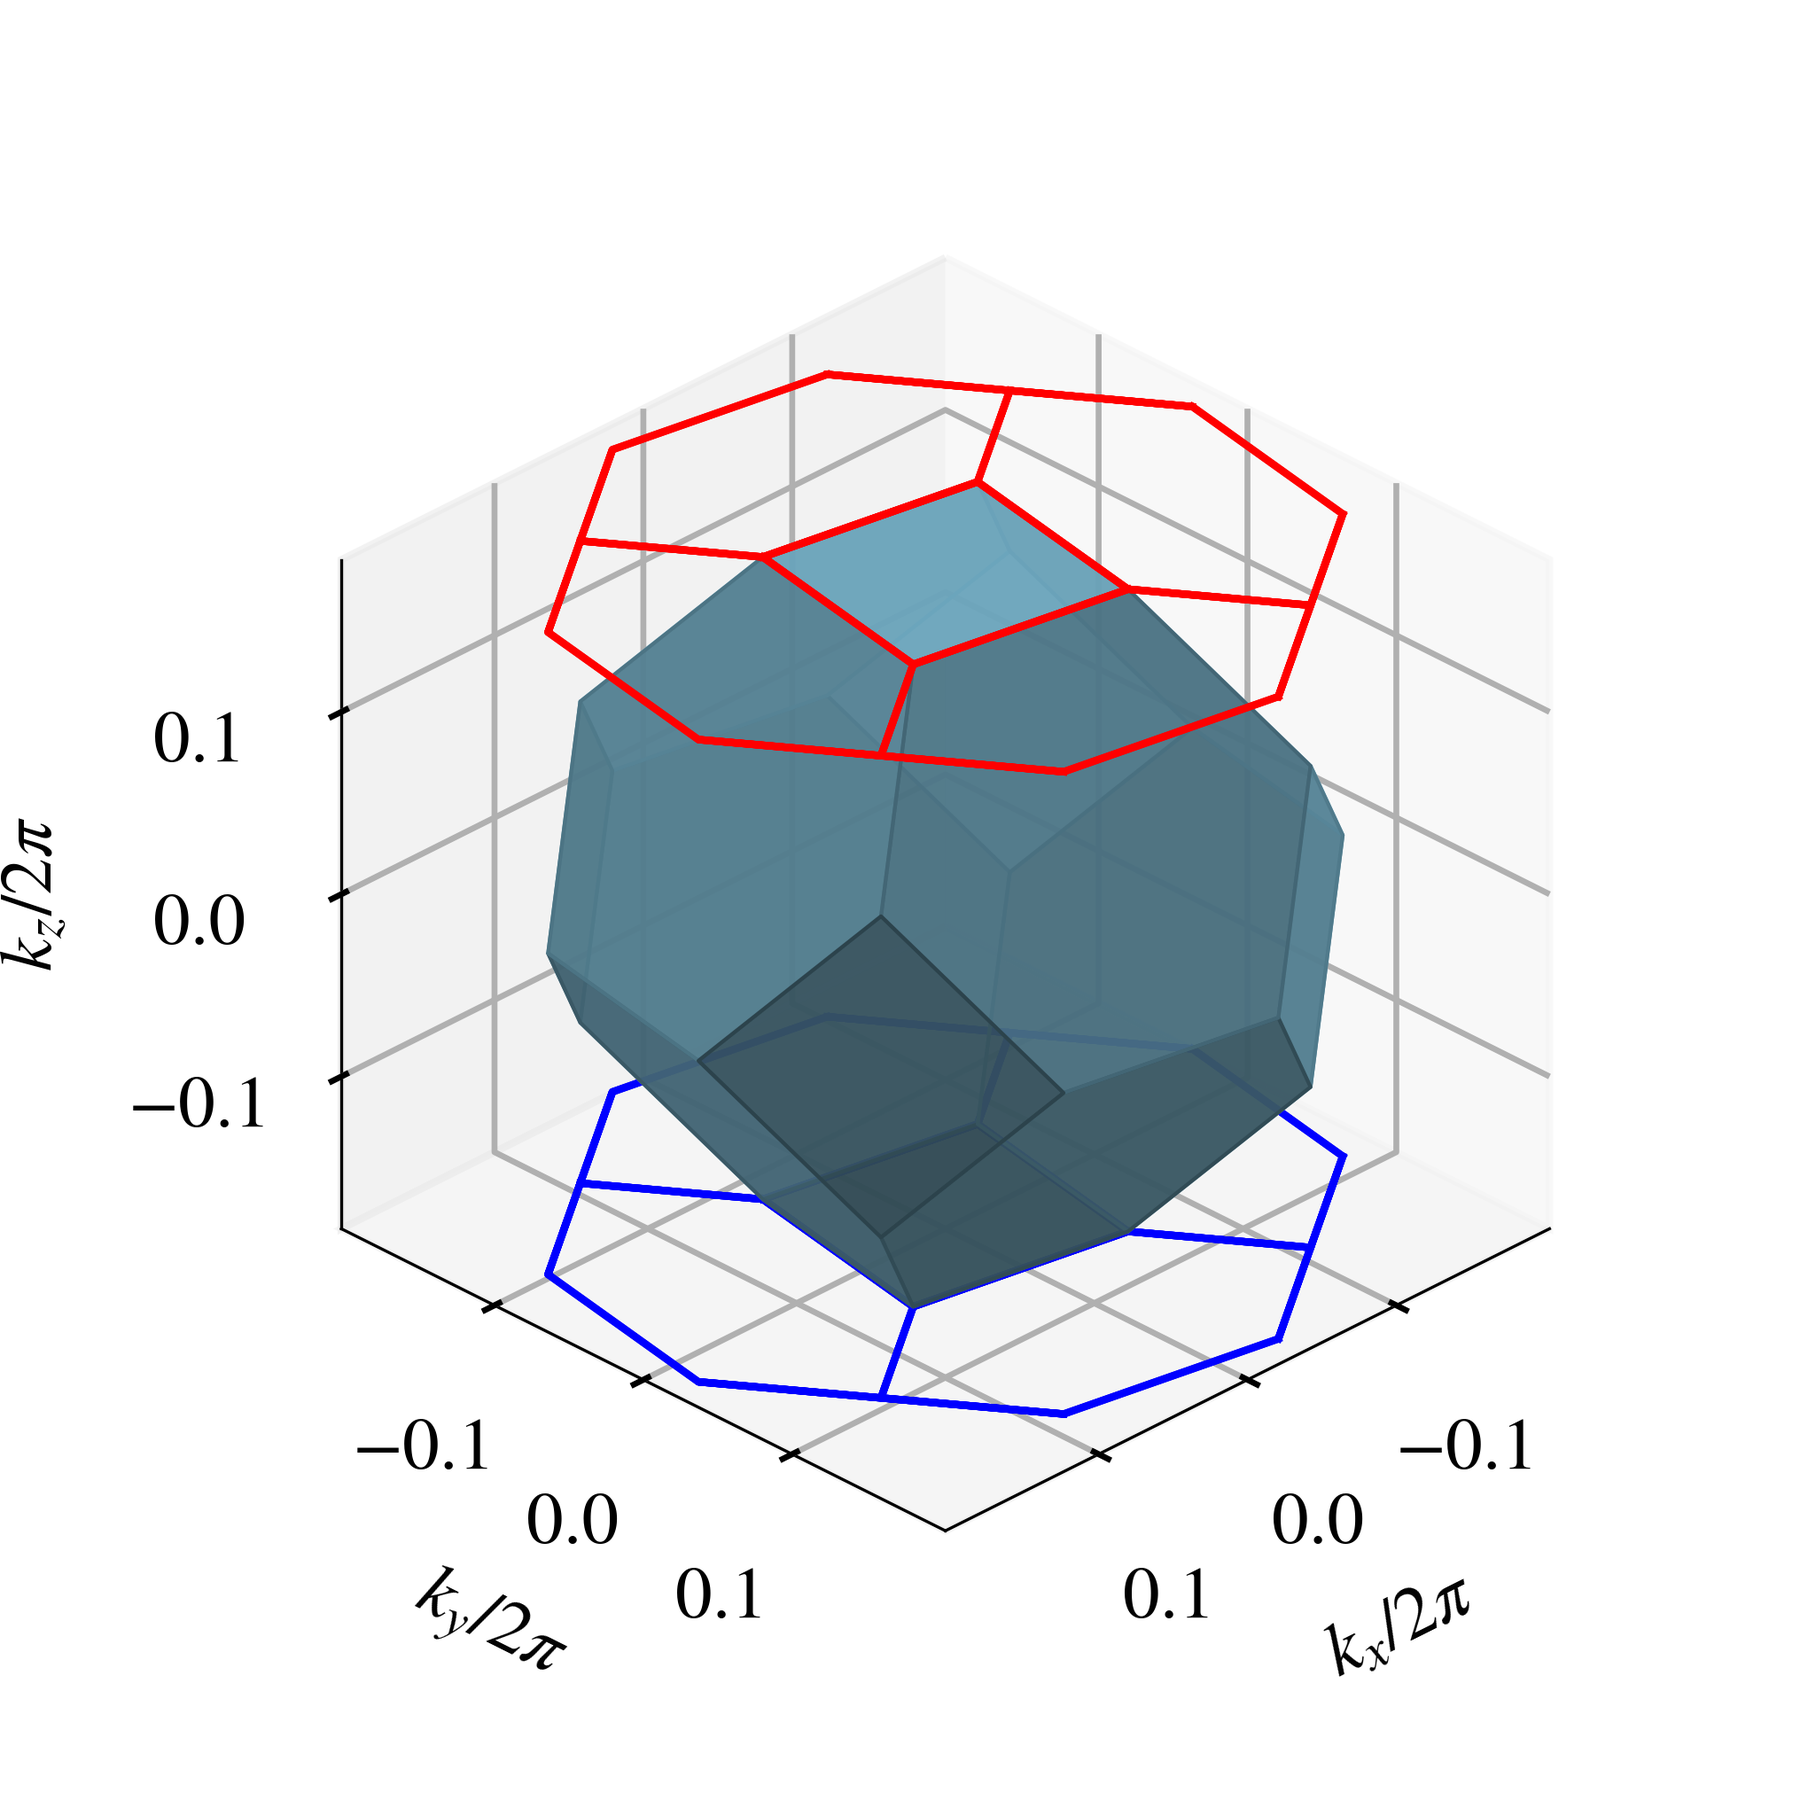
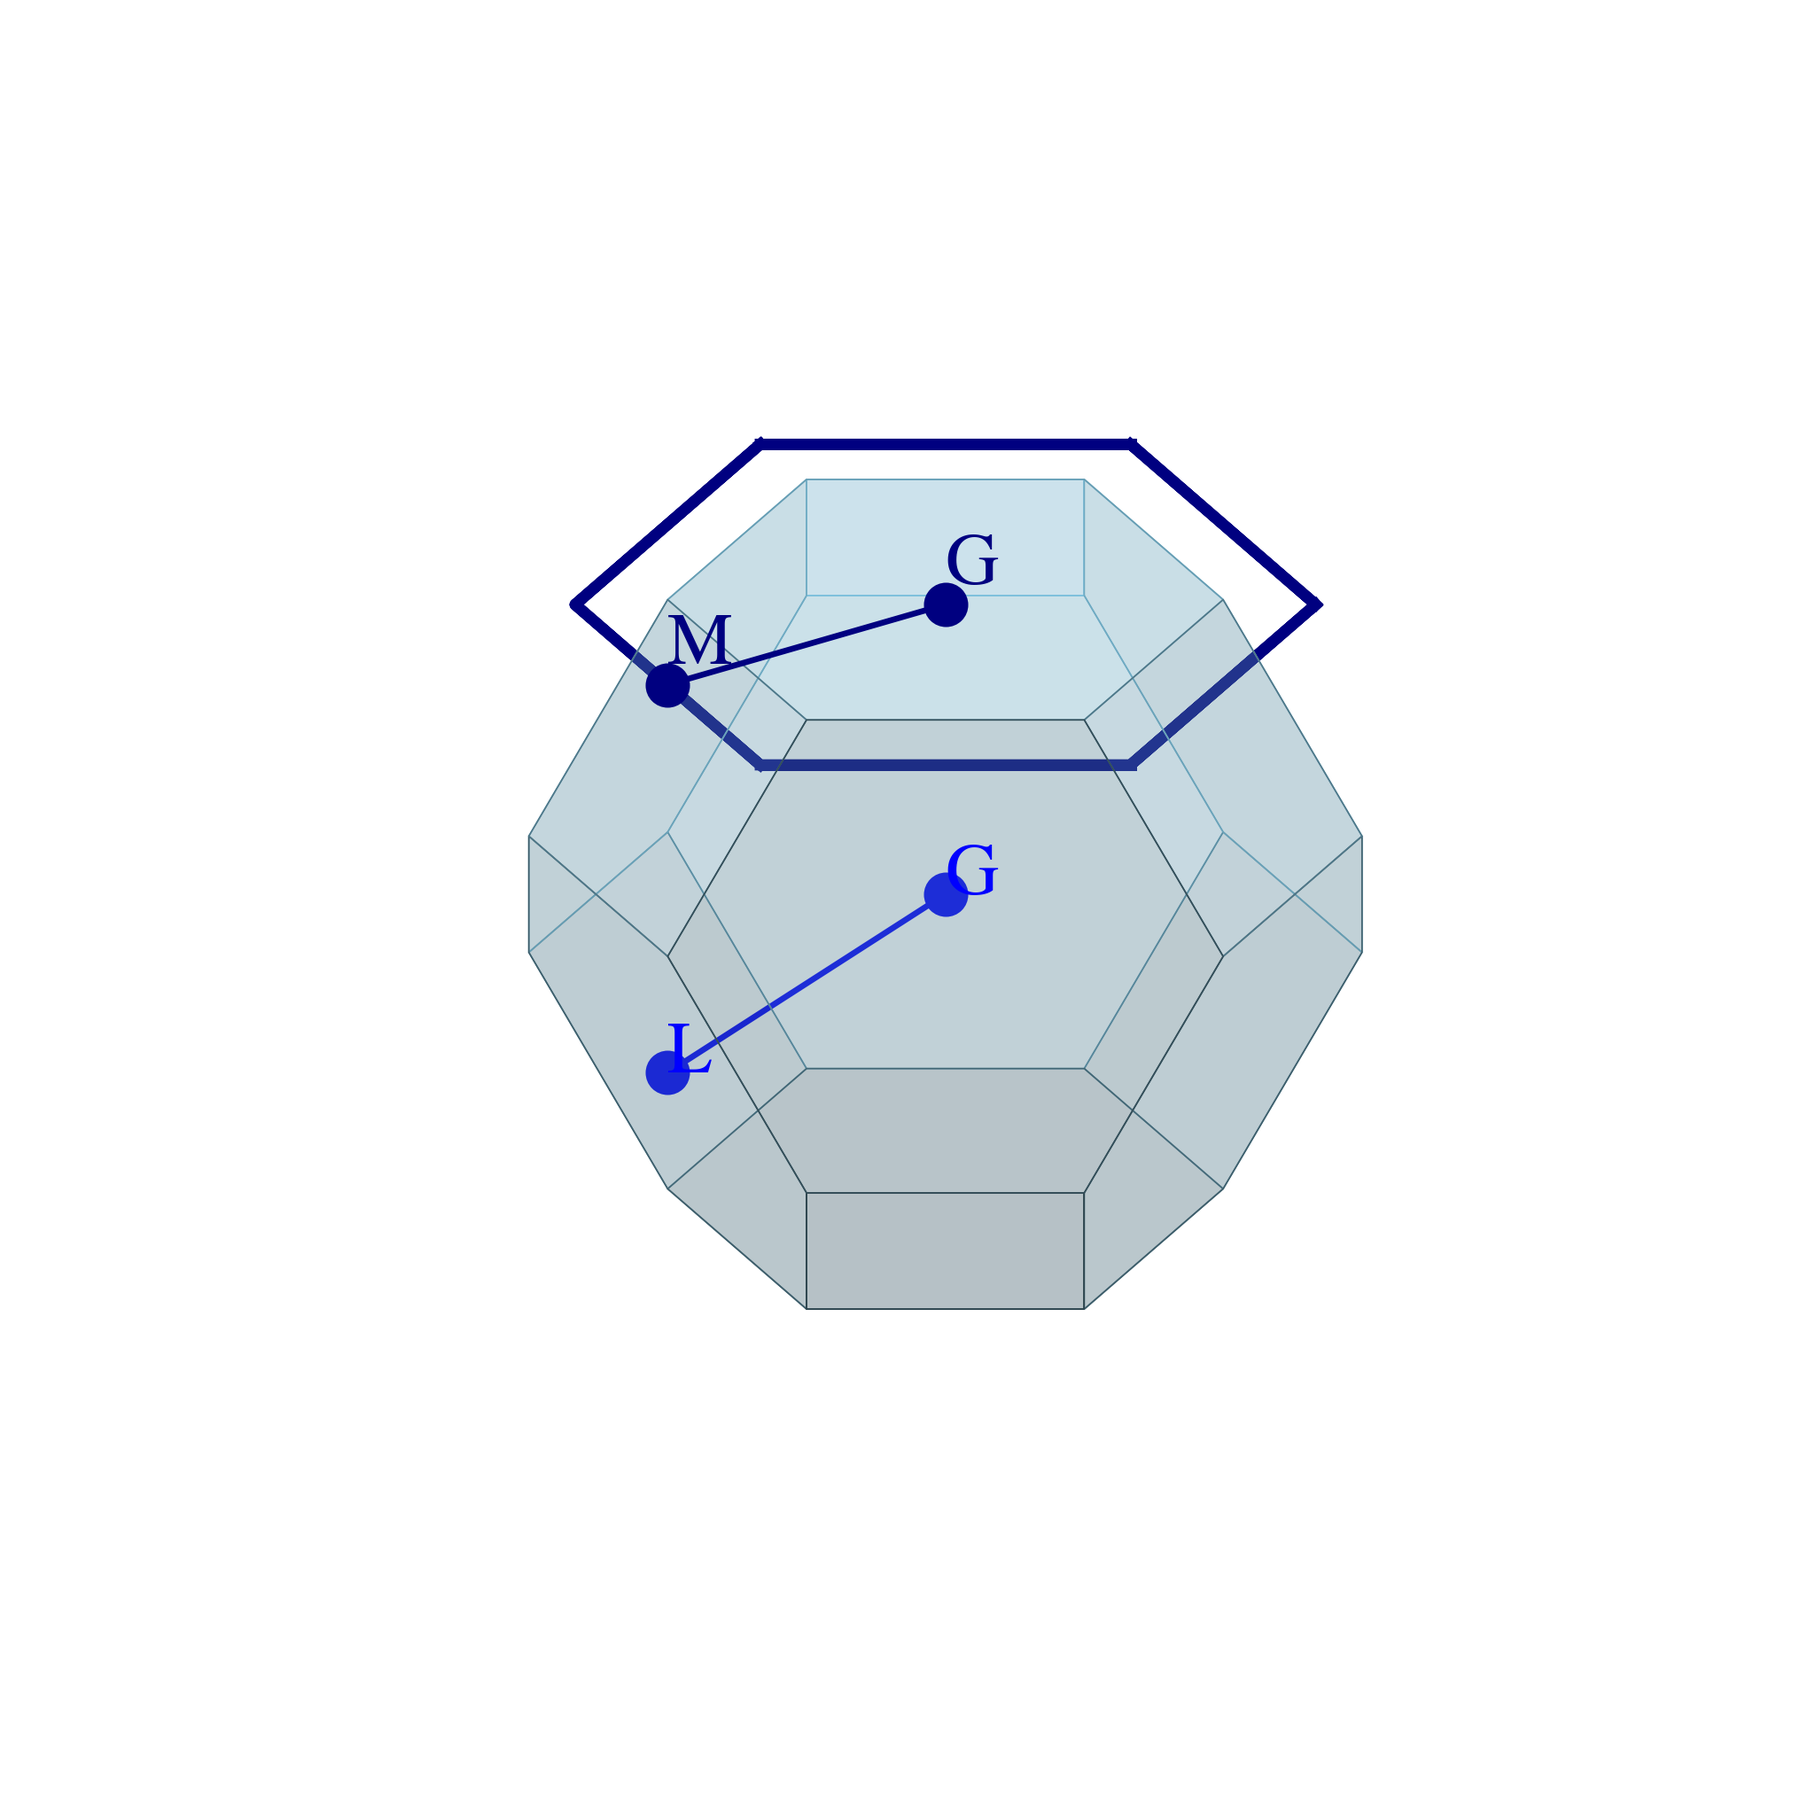
+++

diff --git a/ipyvasp/sio.py b/ipyvasp/sio.py
@@ -809,6 +809,16 @@ def _rad_angle(v1,v2):
     angle = np.arccos(dot_p)
     return angle
 
+def to_plane(normal, points):
+    "Project points to a plane defined by `normal`. shape of normal should be (3,) and of points (N,3)."
+    if np.ndim(normal) + 1 != np.ndim(points):
+        raise ValueError("Shape of points should be (N,3) and of normal (3,).")
+    points = np.array(points)
+    nu = normal/np.linalg.norm(normal) # Normal unit vector
+    along_normal = points.dot(nu) 
+    points = points - along_normal[:,None]*nu # v - (v.n)n
+    return points
+
 from scipy.spatial.transform import Rotation
 def rotation(angle_deg,axis_vec):
     """Get a scipy Rotation object at given `angle_deg` around `axis_vec`.
@@ -939,43 +949,50 @@ def splot_bz(bz_data, plane = None, ax = None, color='blue',fill=True,vectors = 
         if v not in [0,1,2]:
             raise ValueError(f"`vectors` expects values in [0,1,2], got {vectors!r}")
     
-    if plane and plane not in valid_planes:
-        raise ValueError(f"`plane` expects value in 'xyzxzyx' or None, got {plane!r}")
-    
     name = kwargs.pop('label',None) # will set only on single line
     kwargs.pop('zdir',None) # 2D plot on 3D axes is only supported in xy plane.
     
     if plane: #Project 2D, works on 3D axes as well
         ind = valid_planes.index(plane)
+        
         arr = [0,1,2,0,2,1,0]
         i, j = arr[ind], arr[ind+1]
+        is3d = getattr(ax,'name','') == '3d'
+        normals = {'xy' : (0,0,1), 'yz' : (1,0,0), 'zx' : (0,1,0), 'yx' : (0,0,-1), 'zy' : (-1,0,0), 'xz' : (0,-1,0)}
+        if plane not in normals:
+            raise ValueError(f"`plane` expects value in 'xyzxzyx' or None, got {plane!r}")
+    
+        z0 = [0,0,zoffset] if plane in 'xyx' else [0,zoffset,0] if plane in 'xzx' else [zoffset,0,0]
+        idxs = {'xy' : [0,1], 'yz' : [1,2], 'zx' : [2,0], 'yx' : [1,0], 'zy' : [2,1], 'xz' : [0,2]}
         for idx, f in enumerate(bz_data.faces_coords):
-            XYZ = (f[:,i],f[:,j], zoffset*np.ones_like(f[:,i])) if getattr(ax,'name','') == '3d' else (f[:,i],f[:,j])
-            line, = ax.plot(*XYZ,color = (color),**kwargs)
+            g = to_plane(normals[plane],f) + z0
+            line, = ax.plot(*(g.T if is3d else g[:,idxs[plane]].T),color = color,**kwargs)
             if idx == 0:
                 line.set_label(name) # only one line
         
         if vectors:
-            s_basis = bz_data.basis[(vectors,)]
+            s_basis = to_plane(normals[plane],bz_data.basis[(vectors,)])
 
-            for k,y in zip(vectors,s_basis):
+            for k,b in zip(vectors,s_basis):
+                x,y = b[idxs[plane]]
                 l = r" ${}_{} $".format(_label,k+1)
-                l = l + '\n' if y[j] < 0 else '\n' + l
-                ha = 'right' if y[i] < 0 else 'left'
-                xyz = (0.8*y[i], 0.8*y[j], zoffset) if getattr(ax,'name','') == '3d' else (0.8*y[i], 0.8*y[j])
+                l = l + '\n' if y < 0 else '\n' + l
+                ha = 'right' if x < 0 else 'left'
+                xyz = 0.8*b + z0 if is3d else (0.8*x,0.8*y)
                 ax.text(*xyz, l, va = 'center',ha=ha,clip_on = True) # must clip to have limits of axes working.
-                ax.scatter(*[0.8*v if i < 2 else v for i, v in enumerate(xyz)],color='w',s=0.0005) # Must be to scale below arrow.
-            if getattr(ax,'name','') == '3d':
-                XYZ,UVW = (np.ones_like(s_basis)*[0,0,zoffset]).T, s_basis.T
+                ax.scatter(*(xyz if is3d else 0.8*xyz),color='w',s=0.0005) # Must be to scale below arrow.
+            if is3d:
+                XYZ,UVW = (np.ones_like(s_basis)*z0).T, s_basis.T
                 quiver3d(*XYZ,*UVW,C='k',L=0.7,ax = ax,arrowstyle="-|>",mutation_scale=7)
             else:
                 s_zero = [0 for _ in s_basis] # either 3 or 2.
-                ax.quiver(s_zero,s_zero,*s_basis.T[[i,j]],lw=0.9,color='navy',angles='xy', scale_units='xy', scale=1)
+                ax.quiver(s_zero,s_zero,*s_basis[:,idxs[plane]].T,lw=0.9,color='navy',angles='xy', scale_units='xy', scale=1)
 
-        ax.set_xlabel(label.format(valid_planes[i]))
-        ax.set_ylabel(label.format(valid_planes[j]))
-        if getattr(ax,'name','') == '3d':
-            ax.set_zlabel(label.format(valid_planes[ind+2]))
+        ax.set_xlabel(label.format(idxs[plane][0]))
+        ax.set_ylabel(label.format(idxs[plane][1]))
+        if is3d:
+            ind = [i for i in range(3) if i not in idxs[plane]][0]
+            ax.set_zlabel(label.format(ind))
             ax.set_aspect('equal')
             zmin, zmax = ax.get_zlim()
             if zoffset > zmax:
@@ -987,7 +1004,7 @@ def splot_bz(bz_data, plane = None, ax = None, color='blue',fill=True,vectors = 
             ax.set_aspect(1) # Must for 2D axes to show actual lengths of BZ
         return ax
     else: # Plot 3D
-        if ax and ax.name == "3d":
+        if getattr(ax, 'name', '') == "3d": # handle None or 2D axes passed.
             ax3d = ax
         else:
             pos = ax.get_position()
@@ -1387,7 +1404,7 @@ def iplot_lattice(poscar_data, sizes = 10, colors = None, bond_length = None,tol
         coords_n = np.array(coords_n)
         colors_n = np.array(colors_n)
         
-        bond_kws = dict(line_width = 4) | bond_kws
+        bond_kws = {'line_width': 4, **bond_kws}
 
         for (i, cp),c in zip(enumerate(coords_n),colors_n):
             showlegend = True if i == 0 else False
@@ -1398,7 +1415,7 @@ def iplot_lattice(poscar_data, sizes = 10, colors = None, bond_length = None,tol
                 mode='lines',line_color = c, legendgroup='Bonds',showlegend = showlegend,
                 name='Bonds',**bond_kws))
     
-    site_kws = dict(line_color='rgba(1,1,1,0)',line_width=0.001, opacity = 1) | site_kws
+    site_kws = {**dict(line_color='rgba(1,1,1,0)',line_width=0.001, opacity = 1), **site_kws}
     for (k,v),c,s in zip(uelems.items(),colors,sizes):
         if sites:
             v = [i for i in v if i in sites] # Only show selected sites.
@@ -1549,14 +1566,14 @@ def splot_lattice(poscar_data, plane = None, sizes = 50, colors = None, bond_len
         coords_n = np.array(coords_n)
         colors_n = np.array(colors_n)
 
-        bond_kws = dict(alpha = 0.7) | bond_kws # bond_kws overrides alpha only
+        bond_kws = {'alpha':0.7, **bond_kws} # bond_kws overrides alpha only
         if not plane:
             _ = [ax.plot(*c.T,c=_c,**bond_kws) for c,_c in zip(coords_n,colors_n)]
         elif plane in 'xyzxzyx':
             _ = [ax.plot(c[:,ix],c[:,iy],c=_c,**bond_kws) for c,_c in zip(coords_n,colors_n)]
     
     if not plane:
-        site_kws = dict(alpha = 0.7, depthshade = False) | site_kws # site_kws overrides alpha only
+        site_kws = {**dict(alpha = 0.7, depthshade = False), **site_kws} # site_kws overrides alpha only
         ax.scatter(coords[:,0],coords[:,1],coords[:,2],c = colors ,s = sizes,**site_kws)
         if fmt_label:
             for i,coord in enumerate(coords):
@@ -1568,7 +1585,7 @@ def splot_lattice(poscar_data, plane = None, sizes = 50, colors = None, bond_len
         ax.set_box_aspect(np.ptp(bz_data.vertices,axis=0))
                 
     elif plane in 'xyzxzyx':
-        site_kws = dict(alpha = 0.7, zorder = 3) | site_kws 
+        site_kws = {**dict(alpha = 0.7, zorder = 3), **site_kws} 
         iz, = [i for i in range(3) if i not in (ix,iy)]
         zorder = coords[:,iz].argsort()
         if plane in 'yxzy': # Left handed
@@ -1662,7 +1679,7 @@ def join_poscars(poscar_data,other,direction='c',tol=1e-2, system = None):
     i_all = np.cumsum([0,*i_all]) # Do it after labels
     uelems = {_u:range(i_all[i],i_all[i+1]) for i,_u in enumerate(u_all)}
     sys = system or ''.join(uelems.keys())
-    iscartesian = poscar1.metadata.cartesian or poscar2.metadata.cartesian
+    iscartesian = poscar_data.metadata.cartesian or other.metadata.cartesian
     metadata = {'cartesian':iscartesian, 'scale': scale, 'comment': 'Modified by ipyvasp'}
     out_dict = {'SYSTEM':sys,'basis':basis,'metadata':metadata,'positions':np.array(pos_all),'types':uelems}
     return serializer.PoscarData(out_dict)
@@ -1755,36 +1772,37 @@ def rotate_poscar(poscar_data,angle_deg,axis_vec):
     p_dict['metadata']['comment'] = f'Modified by ipyvasp'
     return serializer.PoscarData(p_dict)
 
-def set_zdir(poscar_data, hkl, to_x = None):
-    """Set z-direction of POSCAR along a given hkl direction and returns new data.
-    Args:
-        - path_poscar: Path/to/POSCAR or `poscar` data object.
-        - hkl: (h,k,l) of the direction along which z-direction is to be set. Vector is constructed as h*a + k*b + l*c in cartesian coordinates.
-        - to_x: (h,k,l) of the direction for which will be rotated to xz-plane, and seen along xaxis when viewed from top. 
+def set_zdir(poscar_data, hkl, phi = 0):
+    """
+    Set z-direction of POSCAR along a given hkl direction and returns new data.
+    
+    Parameters
+    ----------
+    path_poscar : Path/to/POSCAR or `poscar` data object.
+    hkl : (h,k,l) of the direction along which z-direction is to be set. Vector is constructed as h*a + k*b + l*c in cartesian coordinates.
+    phi: Rotation angle in degrees about z-axis to set a desired rotated view.
+    
+    Returns
+    -------
+    New instance of poscar with z-direction set along hkl.
     """
     if not isinstance(hkl, (list, tuple, np.ndarray)) and len(hkl) != 3:
         raise ValueError("hkl must be a list, tuple or numpy array of length 3.")
     
     p_dict = poscar_data.to_dict()
     basis = p_dict['basis']
-    zvec = basis.dot(hkl) # in cartesian coordinates
+    zvec = to_R3(basis, [hkl])[0] # in cartesian coordinates
     angle = np.arccos(zvec.dot([0,0,1])/np.linalg.norm(zvec)) # Angle between zvec and z-axis
     rot = rotation(angle_deg = np.rad2deg(angle), axis_vec = np.cross(zvec,[0,0,1])) # Rotation matrix
     new_basis = rot.apply(basis) # Rotate basis so that zvec is along z-axis
-    
-    if to_x is not None:
-        if not isinstance(to_x, (list, tuple, np.ndarray)) and len(to_x) != 3:
-            raise ValueError("to_x must be a list, tuple or numpy array of length 3 for hkl value to view along xaxis when top is zaxis.")
-    
-        xzvec = new_basis.dot(to_x) # in cartesian coordinates, it can be anywhere in xz plane
-        xzvec[2] = 0 # we need to have angle phi in xy plane, not full 3D angle
-        angle = np.arccos(xzvec.dot([1,0,0])/np.linalg.norm(xzvec)) # Angle between xzvec and x-axis
-        rot = rotation(angle_deg = np.rad2deg(angle), axis_vec = [0,0,1]) # Rotate around z-axis to bring in zx plane
-        new_basis = rot.apply(new_basis) # Rotate basis so that xzvec is along x-axis
-    
-    p_dict['basis'] = rot.apply(new_basis) # Rotate basis so that they are transpose
+    p_dict['basis'] = new_basis
     p_dict['metadata']['comment'] = f'Modified by ipyvasp'
-    return serializer.PoscarData(p_dict)
+    new_pos = serializer.PoscarData(p_dict)
+    
+    if phi:
+        return rotate_poscar(new_pos,angle_deg = phi,axis_vec = [0,0,1]) # Rotate around z-axis 
+        
+    return new_pos
 
 def mirror_poscar(poscar_data, direction):
     "Mirror a POSCAR in a given direction. Sometime you need it before joining two POSCARs"

diff --git a/ipyvasp/api.py b/ipyvasp/api.py
@@ -295,6 +295,7 @@ class POSCAR:
         self._plane = plane # Set plane for splot_kpath
         new_ax = sio.splot_bz(bz_data = self._bz, plane = plane, **kwargs)
         self._ax = new_ax # Set ax for splot_kpath
+        self._zoffset = kwargs.get('zoffset',0) # Set zoffset for splot_kpath
         return new_ax
 
     def splot_kpath(self, kpoints, labels = None, fmt_label = lambda x: (x, {'color': 'blue'}), **kwargs):
@@ -322,16 +323,26 @@ class POSCAR:
 
         ijk = [0,1,2]
         _mapping = {'xy':[0,1],'xz':[0,2],'yz':[1,2],'zx':[2,0],'zy':[2,1],'yx':[1,0]}
+        _zoffset = [0,0,0]
+        if self._plane:
+            _zoffset = [0,0,self._zoffset] if self._plane in 'xyx' else [0,self._zoffset,0] if self._plane in 'xzx' else [self._zoffset,0,0]
+        
         if isinstance(self._plane, str) and self._plane in _mapping:
-            ijk = _mapping[self._plane]
+            if getattr(self._ax, 'name', None) != '3d':
+                ijk = _mapping[self._plane] # only change indices if axes is not 3d, even if plane is given
 
         if not labels:
             labels = ["[{0:5.2f}, {1:5.2f}, {2:5.2f}]".format(x,y,z) for x,y,z in kpoints]
             
         sio._validate_label_func(fmt_label, labels[0])
             
-        coords = self.to_R3(kpoints, reciprocal = True)[:,ijk]
-        kwargs = dict(color = 'blue',linewidth=0.8,marker='.',markersize=10) | kwargs # need some defaults
+        coords = self.to_R3(kpoints, reciprocal = True)
+        if _zoffset and self._plane:
+            normal = [0,0,1] if self._plane in 'xyx' else [0,1,0] if self._plane in 'xzx' else [1,0,0]
+            coords = sio.to_plane(normal, coords) + _zoffset
+            
+        coords = coords[:,ijk] # select only required indices
+        kwargs = {**dict(color = 'blue',linewidth=0.8,marker='.',markersize=10), **kwargs} # need some defaults
         self._ax.plot(*coords.T,**kwargs)
         
         for c,text in zip(coords, labels):
@@ -386,10 +397,9 @@ class POSCAR:
     def rotate(self,angle_deg, axis_vec):
         return self.__class__(data = sio.rotate_poscar(self._data, angle_deg = angle_deg, axis_vec = axis_vec)) 
 
-    @_sub_doc(sio.set_zdir,'- poscar_data')
-    @_sig_kwargs(sio.set_zdir, ('poscar_data','hkl'))
-    def set_zdir(self, hkl, **kwargs):
-        return self.__class__(data = sio.set_zdir(self._data, hkl, **kwargs))
+    @_sub_doc(sio.set_zdir,'poscar_data :')
+    def set_zdir(self, hkl, phi = 0):
+        return self.__class__(data = sio.set_zdir(self._data, hkl, phi = phi))
     
     @_sub_doc(sio.translate_poscar,'- poscar_data')
     def translate(self, offset):

diff --git a/README.md b/README.md
@@ -15,10 +15,19 @@ Plot 2D BZ layer on top of 3D!
 
 ```python
 import ipyvasp as ipv
-pos =  ipv.POSCAR('FCC POSACR FILE').rotate(35, [0,0,1])
-ax = pos.splot_bz(vectors = None,color='skyblue',lw=0.5,alpha=0.8)
-pos.splot_bz('xy', ax=ax, zoffset = pos.bz.vertices[:,2].max(), vectors=None, lw=1,color='red',zorder=4)
-pos.splot_bz('xy', ax=ax, zoffset = pos.bz.vertices[:,2].min(), vectors=None, lw=1,color='blue',zorder=0)
+pos =  ipv.POSCAR('FCC POSACR FILE')..set_zdir([1,1,1])
+ax = pos.splot_bz(vectors = None,color='skyblue',lw=0.2,alpha=0.2,fill=True)
+
+kpts = [[0,-1/2,0],[0,0,0]]
+pos.splot_kpath(kpts,labels='LG',zorder=-1) # At 3D BZ
+
+pos2 = pos.transform(lambda a,b,c: (a-c, b-c, a+b+c)) # 111 plane
+pos2.splot_bz('xy',ax=ax,zoffset=0.15,vectors=None,color='navy')
+
+kp2 = pos.map_kpoints(pos2, kpts) # Map kpoints between two structures
+pos2.splot_kpath(kp2,labels='MG',color='navy',fmt_label=lambda lab: (lab+'\n', dict(va='center',color='navy')),zorder=3) 
+
+ax.set_axis_off()
 ```
 
 ![BZ](BZ.png)
